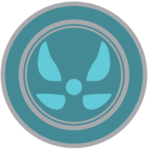
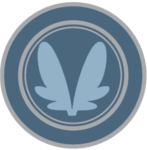
Changed to type symbols

diff --git a/src/components/Ratings.vue b/src/components/Ratings.vue
@@ -7,16 +7,19 @@
             :src="require(`@/assets/images/${current.name}.png`)"
             :max-width="w/4"
             class="center"
+            mb-4
           />
           <v-layout justify-center my-4>
             <v-img
-              :src="require(`@/assets/images/types/${current.types[0]}.png`)"
-              class="type-img"
+              :src="require(`@/assets/images/types/${current.types[0]}Symbol.png`)"
+              class="type-img mt-4 mx-4"
+              v-animate-css="'fadeIn fast'"
             />
             <v-img
               v-if="current.types.length > 1"
-              :src="require(`@/assets/images/types/${current.types[1]}.png`)"
-              class="type-img"
+              :src="require(`@/assets/images/types/${current.types[1]}Symbol.png`)"
+              class="type-img mt-4 mx-4"
+              v-animate-css="'fadeIn fast'"
             />
           </v-layout>
         </v-card>
@@ -200,7 +203,7 @@ export default {
   margin-right: auto;
 }
 .type-img {
-  height: 100px;
-  width: auto;
+  max-width: 150px;
+  height: auto;
 }
 </style>
